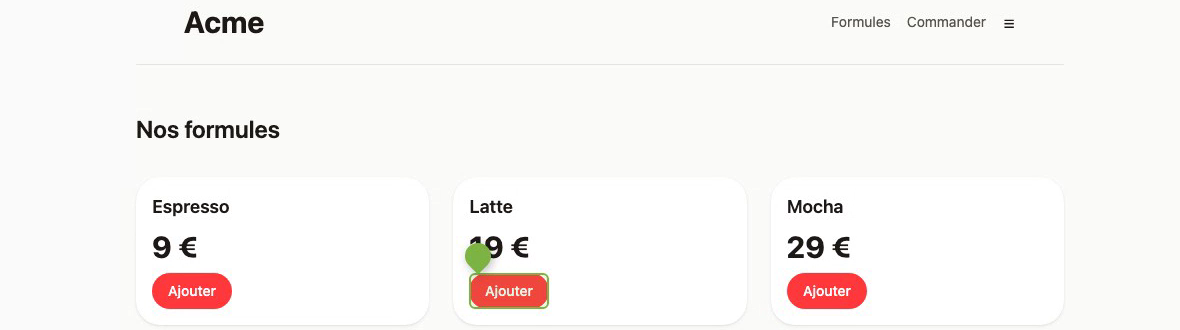
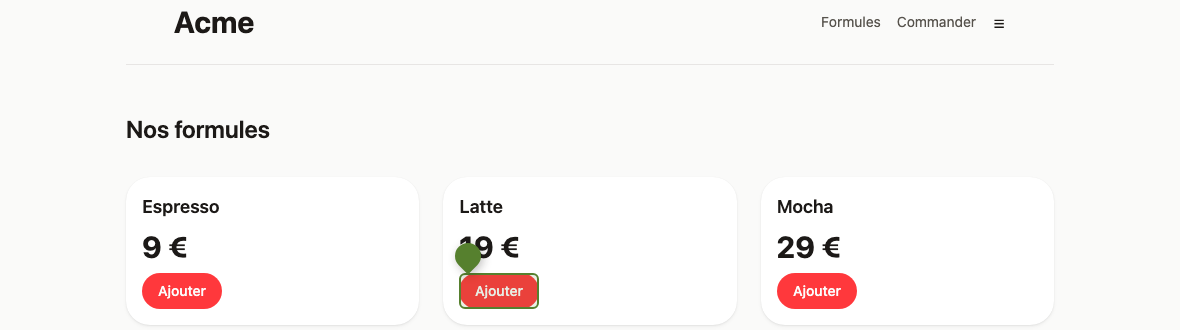
feat(widget): a palette where every pair passes the contrast (FRU-93) (#92)
* feat(widget): a palette where every pair passes the contrast (FRU-93)

The accent and four stage colours held white text below 4.5:1, and the test
kept a list of fifteen known failures. The palette of the design mock-up
passes in the light scheme. The dark scheme takes a lighter accent and a
lighter warning with dark text on them, because each is a fill under text and
also text on the surface.

The list of known failures is empty, and the axe spec has no exception. Its
control paints a grey label and expects a finding.

* feat(widget): a burgundy for the Done stage, apart from the red of the accent (FRU-93)

A finished note must not read as an alert, or as the button that sends one.
The light scheme takes #8c1d40. On the dark surface that measures 1.97 as
the mark of a detached note, so the dark scheme takes #bd3a5c.

---------

diff --git a/packages/widget/src/theme.ts b/packages/widget/src/theme.ts
@@ -22,7 +22,9 @@ import { SEED_STAGES, type SeedStage } from '@fruitback/shared';
  *
  * **FRU-35 changed no rendered colour.** Every colour was the hexadecimal already in the
  * stylesheets. FRU-51 then changed three values for contrast: `color-border-strong`,
- * `color-text-subtle` and `color-success`. `contrast.test.ts` measures every pair a module paints.
+ * `color-text-subtle` and `color-success`. FRU-93 changed the accent and four stage colours, and
+ * gave the dark scheme its own accent and warning. `contrast.test.ts` measures every pair a module
+ * paints, and no pair fails.
  *
  * One thing does move, by 4 pixels: the thread's shadow was `0 10px 34px rgba(0, 0, 0, 0.18)` and the
  * panel's `0 10px 30px rgb(0 0 0 / 18%)` — the same intention spelled twice. They are one token now.
@@ -122,10 +124,10 @@ export function missingStageTokens(): SeedStage[] {
  */
 export const THEME_STYLES = `
 :host {
-  --fruitback-color-accent: #e53935;
+  --fruitback-color-accent: #dd2c27;
   /*
     One foreground per filled background, and not one shared by all of them.
-    All four hold #fff today, which is why a single on-accent looked harmless: the original CSS said
+    All four hold #fff in the light scheme, which is why a single on-accent looked harmless: the original CSS said
     color:#fff in five places, and naming it after the accent coupled three elements whose background
     is something else — the gear on the chip, every pin badge on its stage, the orphan chip on the
     warning. A host pairing a pale accent with a dark foreground would have turned those three into
@@ -146,11 +148,17 @@ export const THEME_STYLES = `
   --fruitback-color-success: #4e7d2a;
   --fruitback-color-warning: #8d6e63;
 
-  /* Ripening, not a rainbow. Same five values the contract used to carry. */
-  --fruitback-stage-seeded: #a3b18a;
-  --fruitback-stage-green: #7cb342;
-  --fruitback-stage-ripening: #fb8c00;
-  --fruitback-stage-ripe: #e53935;
+  /*
+    Ripening, not a rainbow. Each one holds white text at 4.5:1 or more (FRU-93), which the first
+    four did not. A pin sits on the page of the host, so the dark scheme keeps these values, except
+    the last stage but one: see the dark block.
+    Done is a burgundy and not the red of the accent. A finished note must not read as an alert, or
+    as the button that sends one.
+  */
+  --fruitback-stage-seeded: #6a7950;
+  --fruitback-stage-green: #56802e;
+  --fruitback-stage-ripening: #ac5f00;
+  --fruitback-stage-ripe: #8c1d40;
   --fruitback-stage-composted: #8d6e63;
 
   /* Named for the elevation they belong to, not for a size, so a fifth one has to justify itself. */
@@ -178,6 +186,20 @@ export const THEME_STYLES = `
 */
 @media (prefers-color-scheme: dark) {
   :host {
+    /*
+      The accent and the warning are a fill under text and also text on the surface. No red holds
+      white text at 4.5:1 and is also readable on a dark surface, so the dark scheme uses a lighter
+      fill with dark text on it (FRU-93).
+    */
+    --fruitback-color-accent: #ec6a65;
+    --fruitback-color-on-accent: #1c1917;
+    --fruitback-color-warning: #a88a7e;
+    --fruitback-color-on-warning: #1c1917;
+    /*
+      The burgundy of the light scheme measures 1.97 on the dark surface, where it is the mark of a
+      detached note and the top border of a thread. This one holds 3:1 there and white text at 4.5:1.
+    */
+    --fruitback-stage-ripe: #bd3a5c;
     --fruitback-color-surface: #1c1917;
     --fruitback-color-surface-raised: #262220;
     --fruitback-color-border: #3a3532;

diff --git a/packages/widget/src/contrast.test.ts b/packages/widget/src/contrast.test.ts
@@ -7,9 +7,8 @@ import { THEME_STYLES } from './theme.ts';
  * WCAG 2.2 contrast of the default tokens, in the light scheme and in the dark scheme (FRU-51).
  *
  * Text needs 4.5:1 (1.4.3). The border of a field and a focus ring need 3:1 (1.4.11).
- * `KNOWN_FAILURES` holds the pairs that fail now. They are the accent and the stage colours, which
- * are the product's identity and wait for a decision. A pair that starts to pass must leave the list,
- * and a new failure must go in it on purpose.
+ * No pair fails since FRU-93. Before it, a list of known failures held the accent, four stage colours
+ * and the dark warning.
  *
  * The pin itself sits on the host's page, whose colour nothing here knows. No test can promise its
  * contrast.
@@ -74,24 +73,13 @@ const PAIRS: Pair[] = [
     minimum: 4.5,
     where: 'the approximate mark on a pin',
   })),
-];
-
-const KNOWN_FAILURES = [
-  'light: color-on-accent on color-accent, the launch and send labels',
-  'light: color-accent on color-surface-raised, the failed status',
-  'light: color-accent on color-surface, the thread and detached-note links',
-  'light: color-on-stage on stage-seeded, the approximate mark on a pin',
-  'light: color-on-stage on stage-green, the approximate mark on a pin',
-  'light: color-on-stage on stage-ripening, the approximate mark on a pin',
-  'light: color-on-stage on stage-ripe, the approximate mark on a pin',
-  'dark: color-on-accent on color-accent, the launch and send labels',
-  'dark: color-accent on color-surface-raised, the failed status',
-  'dark: color-accent on color-surface, the thread and detached-note links',
-  'dark: color-warning on color-surface, the thread warning about an approximate position',
-  'dark: color-on-stage on stage-seeded, the approximate mark on a pin',
-  'dark: color-on-stage on stage-green, the approximate mark on a pin',
-  'dark: color-on-stage on stage-ripening, the approximate mark on a pin',
-  'dark: color-on-stage on stage-ripe, the approximate mark on a pin',
+  // A drawing and a border, not text: 1.4.11 asks for 3:1. The list names the stage in words too.
+  ...SEED_STAGES.map((stage) => ({
+    foreground: `stage-${stage}`,
+    background: 'color-surface',
+    minimum: 3,
+    where: 'the stage mark of a detached note, and the top border of a thread',
+  })),
 ];
 
 function declared(block: string): Record<string, string> {
@@ -140,7 +128,7 @@ describe('the contrast of the default tokens (FRU-51)', () => {
     }
   });
 
-  it('fails only where a failure is known', () => {
+  it('passes for every pair, in both schemes', () => {
     const failures: string[] = [];
     for (const [scheme, tokens] of [
       ['light', light],
@@ -148,10 +136,12 @@ describe('the contrast of the default tokens (FRU-51)', () => {
     ] as const) {
       for (const { foreground, background, minimum, where } of PAIRS) {
         const measured = ratio(tokens[foreground] ?? '', tokens[background] ?? '');
-        if (measured < minimum) failures.push(`${scheme}: ${foreground} on ${background}, ${where}`);
+        if (measured < minimum) {
+          failures.push(`${scheme}: ${foreground} on ${background}, ${where} (${measured.toFixed(2)})`);
+        }
       }
     }
 
-    assert.deepEqual(failures, KNOWN_FAILURES);
+    assert.deepEqual(failures, []);
   });
 });

diff --git a/e2e/a11y.spec.ts b/e2e/a11y.spec.ts
@@ -109,13 +109,8 @@ test('the thread takes focus, and gives it back to its pin', async ({ page }) =>
   await expect(badge).toBeFocused();
 });
 
-/** The accent fails 4.5:1 on white and on the dark surface, and waits for a design decision (`contrast.test.ts`). */
-const ACCENT = '#e53935';
-
 for (const scheme of ['light', 'dark'] as const) {
-  test(`axe-core finds nothing but the accent in the widget, in each state, in the ${scheme} scheme`, async ({
-    page,
-  }) => {
+  test(`axe-core finds nothing in the widget, in each state, in the ${scheme} scheme`, async ({ page }) => {
     // Axe reads the colours as painted, and an opening animation paints them at part opacity.
     await page.emulateMedia({ colorScheme: scheme, reducedMotion: 'reduce' });
     await openPlayground(page, `axe-${scheme}`);
@@ -126,17 +121,13 @@ for (const scheme of ['light', 'dark'] as const) {
     await expect(page.getByRole('dialog', { name: 'Leave a note' })).toBeHidden({ timeout: 5_000 });
 
     const violations: string[] = [];
-    const accent: string[] = [];
     const scan = async (state: string) => {
       // Scoped to the widget: the playground's own markup is not what this ticket audits.
       const results = await new AxeBuilder({ page }).include('[data-fruitback-host]').analyze();
       for (const violation of results.violations) {
         for (const node of violation.nodes) {
           const data = node.any[0]?.data as { fgColor?: string; bgColor?: string } | undefined;
-          const line = `${state}: ${violation.id} on ${node.target.join(' ')} ${JSON.stringify(data ?? '')}`;
-          const onAccent = data?.fgColor === ACCENT || data?.bgColor === ACCENT;
-          if (violation.id === 'color-contrast' && onAccent) accent.push(line);
-          else violations.push(line);
+          violations.push(`${state}: ${violation.id} on ${node.target.join(' ')} ${JSON.stringify(data ?? '')}`);
         }
       }
     };
@@ -164,7 +155,13 @@ for (const scheme of ['light', 'dark'] as const) {
     await scan('composer');
 
     expect(violations).toEqual([]);
-    // The control for the filter: if the accent passes one day, the filter must go.
-    expect(accent.length, 'the accent passes now: remove ACCENT and its filter').toBeGreaterThan(0);
+
+    // The control for the empty list: with a grey label on the accent, axe must object. Not the
+    // colour of the button itself: axe reports a 1:1 pair as something to review, not as a failure.
+    await page.locator('[data-fruitback-host]').evaluate((host) => {
+      (host as HTMLElement).style.setProperty('--fruitback-color-on-accent', '#999');
+    });
+    await scan('control');
+    expect(violations.filter((line) => line.startsWith('control: color-contrast'))).not.toEqual([]);
   });
 }

diff --git a/packages/widget/src/host.ts b/packages/widget/src/host.ts
@@ -479,5 +479,9 @@ li { display: list-item; }
   clip-path: inset(50%);
   white-space: nowrap;
 }
-:host([data-fruitback-capturing]) .fruitback-launch { background: var(--fruitback-color-chip); }
+:host([data-fruitback-capturing]) .fruitback-launch {
+  background: var(--fruitback-color-chip);
+  /* The label is on the chip now. The foreground of the accent is dark in the dark scheme (FRU-93). */
+  color: var(--fruitback-color-on-chip);
+}
 `;

diff --git a/docs/decisions/widget.md b/docs/decisions/widget.md
@@ -460,9 +460,50 @@ fails if none is found, so the filter goes when the accent changes. The scan emu
 popover still fading in.
 
 The accent and the stage colours are the product's identity, and they were left for a decision rather
-than changed here. `contrast.test.ts` lists their failures exactly, so a fix removes an entry and a new
-failure has to be added on purpose. A pin sits on the host's page, and no test here can promise its
-contrast.
+than changed here. `contrast.test.ts` listed their failures exactly, so a fix removed an entry and a
+new failure had to be added on purpose. A pin sits on the host's page, and no test here can promise
+its contrast.
+
+**The decision came with FRU-93, and the list is empty.** The palette is the one a Claude Design
+mock-up proposed, taken because every value measured above 4.5:1 with white text:
+
+| Token             | Before    | White on it | After     | White on it |
+| ----------------- | --------- | ----------- | --------- | ----------- |
+| `color-accent`    | `#e53935` | 4.23        | `#dd2c27` | 4.70        |
+| `stage-seeded`    | `#a3b18a` | 2.28        | `#6a7950` | 4.70        |
+| `stage-green`     | `#7cb342` | 2.50        | `#56802e` | 4.64        |
+| `stage-ripening`  | `#fb8c00` | 2.37        | `#ac5f00` | 4.78        |
+| `stage-ripe`      | `#e53935` | 4.23        | `#8c1d40` | 8.88        |
+| `stage-composted` | `#8d6e63` | 4.62        | unchanged | 4.62        |
+
+As text on the two light surfaces, the accent measures 4.70 and 4.63.
+
+- **The mock-up gave no dark scheme, and the light values cannot serve there.** The accent is a fill
+  under a label and also the colour of a link on the surface. On `#262220` the light accent measures
+  3.35 as text, and no red is both readable there and dark enough for white text: a search over the
+  lightness of both reds found none. So the dark scheme takes a lighter fill, `#ec6a65`, with
+  `#1c1917` on it: 5.68 as a label, 5.12 as a link on the raised surface. The warning has the same
+  two roles and takes `#a88a7e` with dark text, 5.50 both ways.
+- **The stage colours do not change in the dark scheme, but one.** A pin sits on the page of the host, whose
+  colour follows nothing here. The stage colour is also the mark of a detached note and the top
+  border of a thread, on the surface: a drawing, which needs 3:1, and measures 3.27 at least on the
+  dark surface. `contrast.test.ts` holds that pair now; it did not before.
+- **Axe found a defect in this very change.** While capturing, the launch button takes the chip as
+  its background and kept the foreground of the accent. Both were white, so nothing showed. With a
+  dark foreground on the accent, the label measured 2.29 on the chip. The rule sets `color-on-chip`
+  now. `contrast.test.ts` had the pair in its list and passed: it compares two tokens and cannot
+  know which rule uses them.
+- **The exception in `e2e/a11y.spec.ts` is gone, and a control took its place.** The spec let the
+  accent through and failed if no accent finding came back. With nothing to let through, an empty
+  list would prove nothing, so the last step paints a grey label on the accent and expects axe to
+  object. Not the colour of the button itself: axe reports a 1:1 pair for review, not as a failure.
+- **« Done » is a burgundy, and no longer the red of the accent.** The mock-up gave both `#dd2c27`,
+  as the first palette gave both `#e53935`: a ripe fruit is red. A pin that reads as an alert when
+  the work is done was the objection, and Mathieu chose burgundy: `#8c1d40` in the light scheme.
+  On the dark surface that measures 1.97 as the mark of a detached note, so the dark scheme takes
+  `#bd3a5c`: 3.27 there, and 5.35 under white text. It is the one stage with two values.
+- **The extension's icon keeps `#e53935`.** It is five committed PNG files, drawn on a toolbar the
+  widget's tokens do not reach.
 
 ## Re-anchoring, and why a pin says how sure it is
 

diff --git a/CLAUDE.md b/CLAUDE.md
@@ -390,12 +390,16 @@ suite has caught: [docs/decisions/dev-loop.md](docs/decisions/dev-loop.md).
   must include it: otherwise its new text reads as a page change and schedules a resolve.
 - **The host container is a landmark**, `role="region"` named by `widget.label`. A screen reader meets
   the widget in the middle of the host's content, and the landmark says what it is.
-- **`contrast.test.ts` measures every pair a module paints, in both schemes, against a list of known
-  failures**: the accent, the stage colours and the dark warning wait for a design decision. A pin
-  sits on the host's page, so no test can promise its contrast. `e2e/a11y.spec.ts` runs axe-core in
-  both schemes, scoped to `[data-fruitback-host]`, with animations off. It lets through the accent
-  only, and a control fails when the accent passes. It found what the token test cannot: text that the
-  reset painted black.
+- **`contrast.test.ts` measures every pair a module paints, in both schemes, and no pair fails**
+  (FRU-93). A pin sits on the host's page, so no test can promise its contrast. `e2e/a11y.spec.ts`
+  runs axe-core in both schemes, scoped to `[data-fruitback-host]`, with animations off, and finds
+  nothing. Its control repaints a label grey and expects a finding: an empty list proves nothing
+  alone. Axe finds what the token test cannot, because that test compares the tokens a pair names and
+  not the rule that paints them: text that the reset painted black, and a label that kept the
+  foreground of the accent on the chip.
+- **In the dark scheme the accent and the warning are light fills with dark text on them.** Each one
+  is a fill under text and also text on the surface, and no single red does both with white text.
+  A style that changes a background must change the foreground with it.
 
 **The words** (FRU-37, FRU-38)
 
